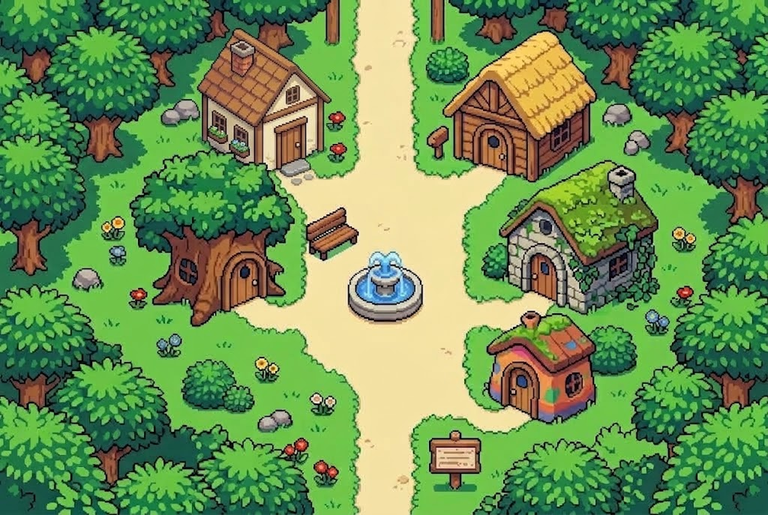
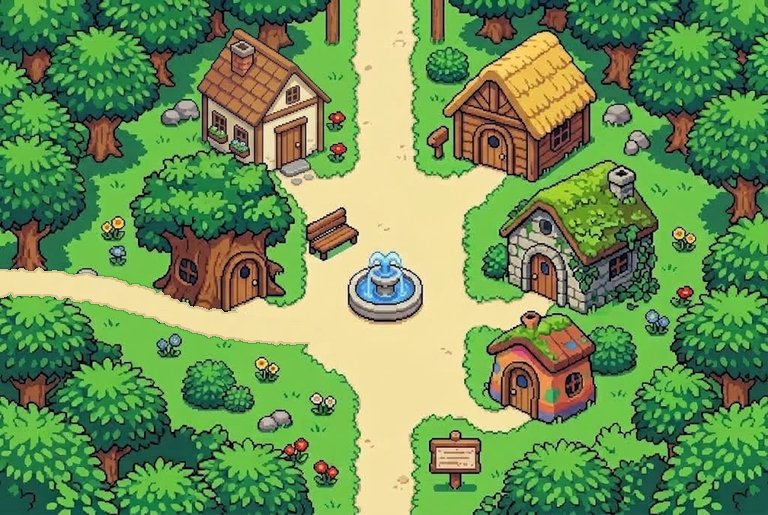
El barrio de las casas; base de la traducción

Changed region(s): [[0.0, 0.4971, 0.4062, 0.6835]]

diff --git a/client/js/game.js b/client/js/game.js
@@ -20,6 +20,7 @@ import { HUB_OBJECTS } from './hub-objects.js';
 import { typeIconHTML, typeIconImg } from './typeicons.js';
 import { playZone, playTrack, playOnce, stopMusic, setVolume, getVolume, preload as preloadMusic, playSfx, setSfxVolume, getSfxVolume } from './music.js';
 import { VERSION_LABEL } from '../../shared/version.js';
+import { t, getLang, setLang, onLangChange, applyDomText } from '../../shared/i18n.js';
 import { asset } from './ui.js';
 import { ITEM_ICON, MACHINE_ICON, MD_ICON, ICON_COLS } from './item-sprites.js';
 import { PORTRAIT, PORTRAIT_COLS } from './portraits.js';
@@ -263,6 +264,9 @@ export async function startGame(me) {
       state.dungeon.tiles[p.y][p.x + 2] = T.FLOOR; state.shop = { carpet, unpaid: [], keeper: { x: p.x, y: p.y - 1 }, room: roomOf(p) || { x: p.x - 1, y: p.y - 1, w: 3, h: 3 }, robbed: false };
       state.enemies = []; state.groundItems = [{ name: 'Semilla Revivir', x: p.x + 1, y: p.y, shop: true, price: 600 }]; render(); } };
   user = me.user; meta = me.user.meta; state.pausedRun = me.run;
+  // idioma: manda el de la cuenta; si la cuenta aún no tiene, se le guarda el elegido en este navegador (si no es el español)
+  if (meta.lang) setLang(meta.lang); else if (getLang() !== 'es') api('/settings/lang', { lang: getLang() }).then(() => { meta.lang = getLang(); }).catch(() => {});
+  applyDomText();
   try {   // reinicio general: el navegador olvida también lo suyo (frases de la historia oídas, avisos, copias de seguridad)
     const ek = `pmdt_epoch_${user.name}`, ep = String(meta.epoch || 0);
     if (localStorage.getItem(ek) !== ep && meta.epoch) {
@@ -319,7 +323,7 @@ const hubFree = (area, x, y) => FOOT.every(([ox, oy]) => Hub.walkable(area, x + 
 // camino por el suelo transitable (búsqueda en anchura sobre una rejilla de 6 px)
 // Coste del terreno en las zonas de exterior: los caminos de tierra cuestan poco y la hierba bastante más, para que
 // quien anda por la aldea vaya por los caminos (como lo haría cualquiera) y solo ataje si ahorra mucho.
-const PATH_AREAS = new Set(['plaza', 'mercado', 'aldea', 'fuente']), costGrids = new Map();
+const PATH_AREAS = new Set(['plaza', 'mercado', 'aldea', 'fuente', 'barrio']), costGrids = new Map();
 function costGrid(area) {
   if (!PATH_AREAS.has(area)) return null;
   if (costGrids.has(area)) return costGrids.get(area);
@@ -2915,7 +2919,7 @@ function drawStatusIcon(e, px, py, tile) {
   ctx.restore(); return true;
 }
 const STAT_NAMES_DE = { atk: 'el Ataque', def: 'la Defensa', spa: 'el At. Esp.', spd: 'la Def. Esp.' };   // «sube el Ataque de…»
-const AREA_NAMES = { plaza: 'Plaza del gremio', gremio: 'Gremio de Pidgeot', descanso: 'Zona de descanso', mercado: 'Mercado', aldea: 'Aldea', fuente: 'Fuente de la Evolución' };   // nombre de cada zona (etiqueta del mapa y cabecera)
+const AREA_NAMES = { plaza: 'Plaza del gremio', gremio: 'Gremio de Pidgeot', descanso: 'Zona de descanso', mercado: 'Mercado', aldea: 'Aldea', fuente: 'Fuente de la Evolución', barrio: 'Barrio' };   // nombre de cada zona (etiqueta del mapa y cabecera)
 function drawInfoHud() {
   if (infoMode() !== 'dentro' || state.scene !== 'dungeon' || !state.player || state.menu || state.cut) return;
   const p = state.player, s = UIS(), fs = Math.round(12 * s), font = DIALOG_FONT();
@@ -3497,9 +3501,13 @@ function setupMusicControl() {
   document.getElementById('fb-send')?.addEventListener('click', async () => {
     const where = state.scene === 'dungeon' ? `${state.dungeonDef?.name || ''} ${state.floor}F` : `aldea (${state.hub?.area || '—'})`;
     try { await api('/feedback', { kind: document.getElementById('fb-kind').value, text: fbt.value, context: { where, version: VERSION_LABEL, ua: navigator.userAgent.slice(0, 160), w: innerWidth, h: innerHeight } });
-      fbt.value = ''; fbmsg.textContent = '¡Gracias! Lo hemos recibido.'; setTimeout(fbClose, 1400); }
+      fbt.value = ''; fbmsg.textContent = t('buzon.gracias'); setTimeout(fbClose, 1400); }
     catch (e) { fbmsg.textContent = e.message || 'No se ha podido enviar. Prueba otra vez.'; }
   });
+  // idioma: se guarda en el navegador y en la cuenta; al cambiarlo se rehacen los textos de la página y la pantalla
+  const lsel = document.getElementById('opt-lang');
+  if (lsel) { lsel.value = getLang(); lsel.addEventListener('change', () => { setLang(lsel.value); api('/settings/lang', { lang: lsel.value }).then(() => { if (meta) meta.lang = lsel.value; }).catch(() => {}); lsel.blur(); }); }
+  onLangChange(lang => { if (lsel) lsel.value = lang; applyDomText(); render(); });
   const fr = document.getElementById('opt-frame');
   if (fr) { fr.value = frameColor(); fr.addEventListener('change', () => { try { localStorage.setItem('mm_frame', fr.value); } catch {} fr.blur(); render(); }); }
   const inf = document.getElementById('opt-info');

diff --git a/shared/i18n.js b/shared/i18n.js
@@ -1,0 +1,53 @@
+// =====================================================================
+// IDIOMAS — textos del juego en español (por defecto) e inglés.
+// t('clave', { dato }) devuelve el texto en el idioma activo; si falta en ese idioma, el español; si tampoco
+// existe, la propia clave (así un olvido se ve enseguida en pantalla). Los datos van entre llaves: «{nombre}».
+// En el navegador el idioma se guarda en localStorage (mm_lang) y en la cuenta (meta.lang); en el servidor, cada
+// respuesta usa el de la cuenta (o el que manda el navegador en la cabecera X-Lang si aún no hay sesión).
+// =====================================================================
+export const LANGS = { es: 'Español', en: 'English' };
+export const DEFAULT_LANG = 'es';
+export const validLang = l => Object.hasOwn(LANGS, l) ? l : DEFAULT_LANG;
+
+export const DICT = {
+  es: {
+    'opciones.idioma': 'Idioma',
+    'opciones.marco': 'Color del marco',
+    'buzon.gracias': '¡Gracias! Lo hemos recibido.',
+    'err.login': '¿Tú también te has olvidado del código secreto?',
+    'err.feedback.corto': 'Cuéntanos un poco más (al menos unas palabras).',
+  },
+  en: {
+    'opciones.idioma': 'Language',
+    'opciones.marco': 'Frame colour',
+    'buzon.gracias': 'Thank you! We got it.',
+    'err.login': 'Did you forget your secret code too?',
+    'err.feedback.corto': 'Tell us a little more (at least a few words).',
+  },
+};
+
+const fill = (s, data) => data ? s.replace(/\{(\w+)\}/g, (m, k) => k in data ? String(data[k]) : m) : s;
+// Texto en un idioma concreto (el servidor lo usa con el de cada cuenta)
+export const tr = (lang, key, data) => fill(DICT[validLang(lang)][key] ?? DICT[DEFAULT_LANG][key] ?? key, data);
+
+// Idioma activo (navegador)
+const store = typeof localStorage !== 'undefined' ? localStorage : null;
+let current = (() => { try { return validLang(store?.getItem('mm_lang')); } catch { return DEFAULT_LANG; } })();
+const listeners = new Set();
+export const getLang = () => current;
+export const t = (key, data) => tr(current, key, data);
+export function setLang(lang) {
+  lang = validLang(lang);
+  try { store?.setItem('mm_lang', lang); } catch { /* navegación privada */ }
+  if (lang === current) return;
+  current = lang;
+  for (const fn of listeners) { try { fn(lang); } catch { /* que un fallo no corte a los demás */ } }
+}
+export const onLangChange = fn => { listeners.add(fn); return () => listeners.delete(fn); };
+
+// Textos fijos de la página: los elementos con data-i18n="clave" se rellenan (y se vuelven a rellenar al cambiar de idioma)
+export function applyDomText(root = typeof document !== 'undefined' ? document : null) {
+  if (!root) return;
+  if (root.documentElement) root.documentElement.lang = current;
+  for (const el of root.querySelectorAll('[data-i18n]')) el.textContent = t(el.dataset.i18n);
+}

diff --git a/index.html b/index.html
@@ -94,9 +94,10 @@
         <label class="set-row"><span>Mando en pantalla</span><input type="checkbox" id="opt-touch"></label>
         <label class="set-row"><span>Vista de mazmorra</span><select id="opt-dview"><option value="near">Cercana</option><option value="wide">Amplia</option></select></label>
         <button id="btn-feedback" class="set-btn" type="button">Enviar un comentario o un fallo</button>
-        <label class="set-row"><span>Color del marco</span><select id="opt-frame"><option value="azul">Azul</option><option value="rojo">Rojo</option><option value="verde">Verde</option><option value="morado">Morado</option><option value="dorado">Dorado</option><option value="gris">Gris</option></select></label>
+        <label class="set-row"><span data-i18n="opciones.marco">Color del marco</span><select id="opt-frame"><option value="azul">Azul</option><option value="rojo">Rojo</option><option value="verde">Verde</option><option value="morado">Morado</option><option value="dorado">Dorado</option><option value="gris">Gris</option></select></label>
         <label class="set-row"><span>Información</span><select id="opt-info"><option value="dentro">Dentro</option><option value="fuera">Fuera</option><option value="oculta">Oculta</option></select></label>
         <label class="set-row set-log"><span>Mensajes</span><select id="opt-log"><option value="inside">Dentro</option><option value="outside">Fuera</option></select></label>
+        <label class="set-row"><span data-i18n="opciones.idioma">Idioma</span><select id="opt-lang"><option value="es">Español</option><option value="en">English</option></select></label>
         <p class="set-foot" id="set-version"></p>
       </div>
     </div>

diff --git a/client/js/app.js b/client/js/app.js
@@ -12,6 +12,7 @@ import { dialog, menu, keyboard, writeText, loadManifest, portraitOf, portraitUR
 import { initTouchControls } from './touch.js';
 import { playTrack, stopMusic } from './music.js';
 import { VERSION_LABEL } from '../../shared/version.js';
+import { applyDomText } from '../../shared/i18n.js';
 
 const $ = s => document.querySelector(s);
 const show = id => { document.querySelectorAll('.screen').forEach(s => s.classList.add('hidden')); $(id).classList.remove('hidden'); document.body.classList.toggle('in-game', id === '#screen-game'); if (id === '#screen-auth') playTrack('menu'); }; // música del menú (suena tras la primera pulsación, como exige el navegador)
@@ -211,6 +212,7 @@ async function enterGame() {
 }
 $('#logout').addEventListener('click', async () => { try { await api('/auth/logout', {}); } catch {} setToken(null); location.reload(); });
 
+applyDomText();   // textos de la página en el idioma guardado en este navegador
 initTouchControls();
 // ni arrastrar imágenes ni seleccionar con doble clic fuera de los campos de texto
 document.addEventListener('contextmenu', ev => { if (!ev.target.closest('input, textarea')) ev.preventDefault(); }); // el clic derecho no hace nada

diff --git a/client/js/hub.js b/client/js/hub.js
@@ -117,9 +117,17 @@ export const HUB = {
     exits: [
       { rect: [345, 0, 425, 22], to: 'plaza', at: { x: 384, y: 468 } },
       { rect: [345, 493, 425, 515], action: 'dungeons', label: 'Salida a las mazmorras', back: { x: 384, y: 470 } },
+      { rect: [0, 262, 22, 300], to: 'barrio', at: { x: 1488, y: 394 } },   // camino de la izquierda, junto a la casa del árbol: al barrio
     ],
     npcs: [ { id: 'wobbuffet', x: 250, y: 300, facing: [0, 1], talk: 'wobbuffet', idle: true, untilScene: 'cafe-pam' } ],   // su balanceo es su gracia (cuando abre el café, se muda allí de cliente)
     wanderers: 4, // Pokémon sueltos paseando (sin función por ahora)
+  },
+  // El barrio de las casas (zona grande, 1536 × 1024): diez casas (y una en un árbol) alrededor de una plaza con pozo. Sin vecinos todavía.
+  // Colisiones provisionales. El camino de abajo queda reservado para el observatorio (aún sin salida).
+  barrio: {
+    img: 'client/assets/hub/barrio.png', mask: 'client/assets/hub/barrio_mask.png', spawn: { x: 1488, y: 394 },
+    exits: [ { rect: [1514, 350, 1536, 438], to: 'aldea', at: { x: 40, y: 283 } } ],
+    npcs: [],
   },
 };
 export const VIEW = { w: 600, h: 408 };

diff --git a/client/js/api.js b/client/js/api.js
@@ -1,4 +1,5 @@
 import { API_URL } from './config.js';
+import { getLang } from '../../shared/i18n.js';
 
 let token = localStorage.getItem('mm_token');
 export const setToken = t => { token = t; t ? localStorage.setItem('mm_token', t) : localStorage.removeItem('mm_token'); };
@@ -25,7 +26,7 @@ export async function api(path, body, { onWaking, rid = newRequestId(), keepaliv
     try {
       const res = await fetch(API_URL + path, {
         method: body !== undefined ? 'POST' : 'GET',
-        headers: { 'Content-Type': 'application/json', 'X-Request-Id': rid, ...(token ? { Authorization: `Bearer ${token}` } : {}) },
+        headers: { 'Content-Type': 'application/json', 'X-Request-Id': rid, 'X-Lang': getLang(), ...(token ? { Authorization: `Bearer ${token}` } : {}) },
         body: body !== undefined ? JSON.stringify(body) : undefined,
         signal: ctrl.signal, keepalive,
       });

diff --git a/client/js/music.js b/client/js/music.js
@@ -37,7 +37,7 @@ const TRACKS = {
 };
 // Lista de pistas con sus etiquetas (para consultarla desde la consola: window.__mmTracks())
 if (typeof window !== 'undefined') window.__mmTracks = () => Object.entries(TRACKS).map(([k, t]) => ({ pista: k, set: t.set, aprobada: t.approved }));
-const ZONE_TRACK = { plaza: 'village', gremio: 'village', descanso: 'rest', mercado: 'village', aldea: 'village', fuente: 'quiz' };   // la fuente: el tema del test («conócete primero»)
+const ZONE_TRACK = { plaza: 'village', gremio: 'village', descanso: 'rest', mercado: 'village', aldea: 'village', fuente: 'quiz', barrio: 'village' };   // la fuente: el tema del test («conócete primero»)
 const FADE = 1.2; // segundos de transición
 
 let ctx = null, master = null, current = null; // current = { key, src, gain }
